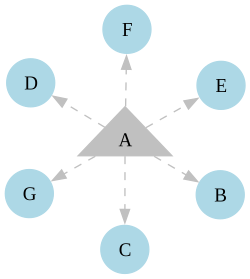
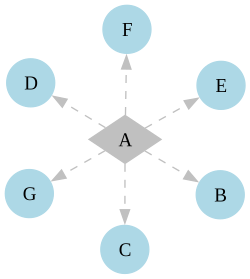
Changes to be committed: 	modified:   README.md 	modified:   src/7.gv 	modified:   target/07.png

diff --git a/README.md b/README.md
@@ -126,7 +126,7 @@ digraph G {
   node [shape=circle,style=filled, color=lightblue]
   edge [style=dashed, color=grey]
   A-> {B,C,D,E,F,G}
-  A [ shape=triangle,color=grey]
+  A [ shape=diamond,color=grey]
 }
 ```
 
